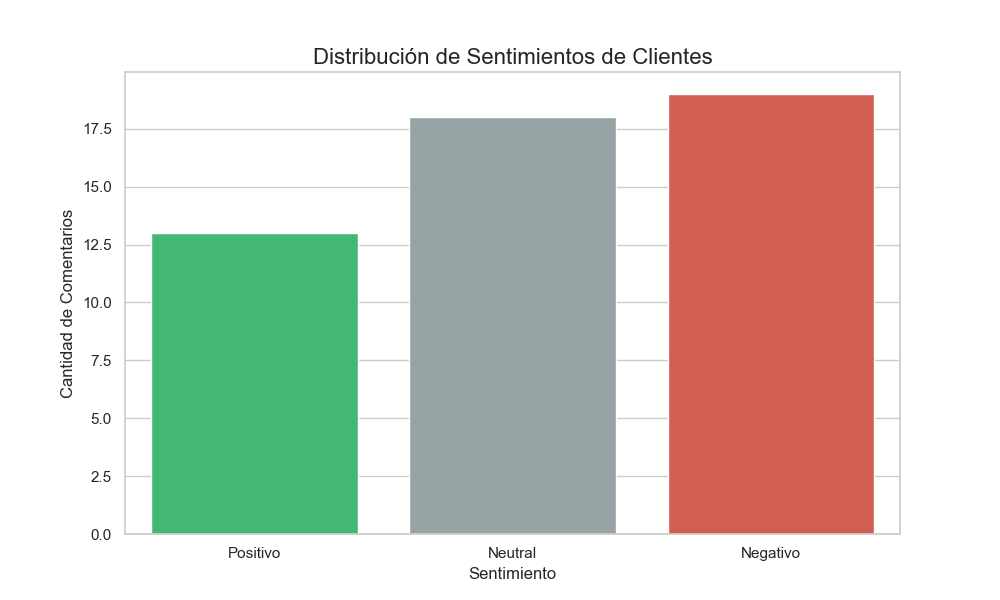
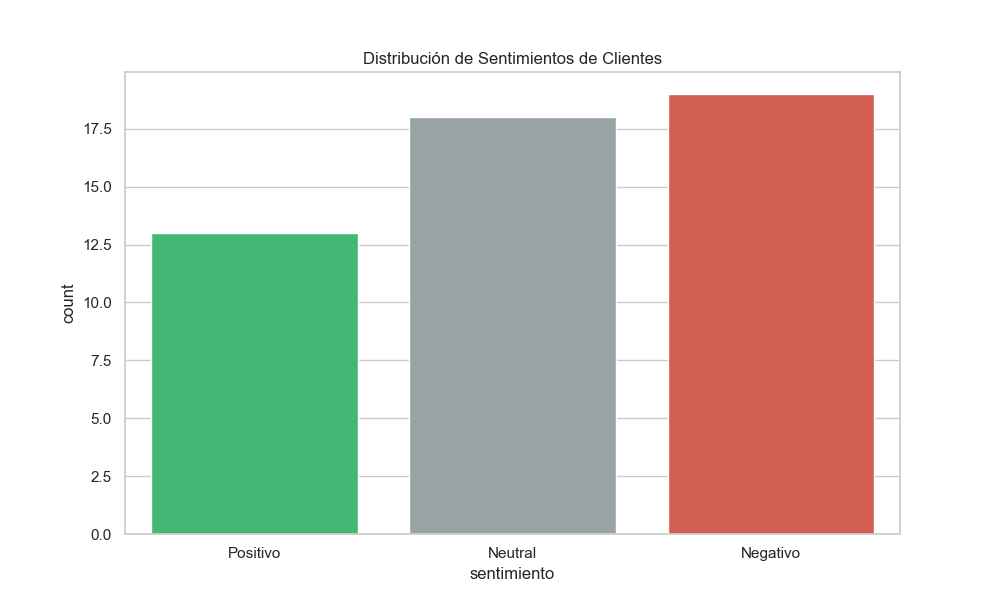
fase 4
creacion de pdf considerando fases anteriores

Changed region(s): [[0.31, 0.06, 0.713, 0.12], [0.062, 0.36, 0.093, 0.66], [0.465, 0.93, 0.558, 0.99]]

diff --git a/analizador_sentimientos/main.py b/analizador_sentimientos/main.py
@@ -3,69 +3,88 @@ import re
 import matplotlib.pyplot as plt
 import seaborn as sns
 from pysentimiento import create_analyzer
+from fpdf import FPDF
+from datetime import datetime
 
 # ==========================================
 # CONFIGURACIÓN INICIAL
 # ==========================================
 print("⏳ Cargando el cerebro de IA (pysentimiento)...")
 analyzer = create_analyzer(task="sentiment", lang="es")
-
-# Configuración estética de los gráficos
 sns.set_theme(style="whitegrid")
 
 # ==========================================
-# FUNCIONES DE PROCESAMIENTO
+# CLASE PARA EL REPORTE PDF
+# ==========================================
+class ReportePDF(FPDF):
+    def header(self):
+        self.set_font('Arial', 'B', 15)
+        self.cell(0, 10, 'Reporte de Análisis de Sentimientos', 0, 1, 'C')
+        self.ln(5)
+
+    def footer(self):
+        self.set_y(-15)
+        self.set_font('Arial', 'I', 8)
+        self.cell(0, 10, f'Página {self.page_no()}', 0, 0, 'C')
+
+# ==========================================
+# FUNCIONES DE PROCESAMIENTO Y LÓGICA
 # ==========================================
 
 def limpiar_texto(texto):
-    if not isinstance(texto, str):
-        return ""
+    if not isinstance(texto, str): return ""
     texto = texto.lower()
-    texto = re.sub(r'http\S+|www\S+|https\S+', '', texto, flags=re.MULTILINE)
     texto = re.sub(r'[^a-záéíóúñ\s]', '', texto)
     return texto.strip()
 
 def clasificar_sentimiento(texto_limpio):
-    if not texto_limpio:
-        return "Neutral"
+    if not texto_limpio: return "Neutral"
     resultado = analyzer.predict(texto_limpio)
     mapeo = {"POS": "Positivo", "NEG": "Negativo", "NEU": "Neutral"}
     return mapeo.get(resultado.output, "Neutral")
 
-# ==========================================
-# FASE 3: VISUALIZACIÓN
-# ==========================================
-
 def generar_grafico(df):
-    """
-    Crea un gráfico de barras con los resultados y lo guarda como imagen.
-    """
-    print("📊 Generando gráfico de resultados...")
-    
     plt.figure(figsize=(10, 6))
-    
-    # Definir colores fijos para coherencia (Verde, Gris, Rojo)
     colores = {"Positivo": "#2ecc71", "Neutral": "#95a5a6", "Negativo": "#e74c3c"}
-    
-    # Crear el gráfico de barras
     sns.countplot(x='sentimiento', data=df, palette=colores, hue='sentimiento', legend=False)
-    
-    plt.title('Distribución de Sentimientos de Clientes', fontsize=16)
-    plt.xlabel('Sentimiento', fontsize=12)
-    plt.ylabel('Cantidad de Comentarios', fontsize=12)
-    
-    # Guardar el gráfico como imagen para el reporte futuro
+    plt.title('Distribución de Sentimientos de Clientes')
     plt.savefig("reporte_sentimientos.png")
-    print("✅ Gráfico guardado como 'reporte_sentimientos.png'")
+    plt.close() # Cerramos para liberar memoria
+
+def crear_pdf(df):
+    print("📄 Generando archivo PDF...")
+    pdf = ReportePDF()
+    pdf.add_page()
     
-    # Mostrar el gráfico en una ventana (opcional)
-    # plt.show()
+    # Información General
+    pdf.set_font('Arial', '', 12)
+    pdf.cell(0, 10, f"Fecha del reporte: {datetime.now().strftime('%d/%m/%Y')}", 0, 1)
+    pdf.cell(0, 10, f"Total de comentarios analizados: {len(df)}", 0, 1)
+    pdf.ln(10)
+    
+    # Resumen Estadístico
+    pdf.set_font('Arial', 'B', 12)
+    pdf.cell(0, 10, 'Resumen Ejecutivo:', 0, 1)
+    pdf.set_font('Arial', '', 12)
+    
+    conteo = df['sentimiento'].value_counts()
+    for sent, cant in conteo.items():
+        porcentaje = (cant / len(df)) * 100
+        pdf.cell(0, 10, f"- {sent}: {cant} ({porcentaje:.1f}%)", 0, 1)
+    
+    pdf.ln(10)
+    
+    # Insertar el Gráfico
+    pdf.image('reporte_sentimientos.png', x=10, y=None, w=180)
+    
+    pdf.output("Reporte_Final_Sentimientos.pdf")
+    print("✅ ¡PDF generado como 'Reporte_Final_Sentimientos.pdf'!")
 
 # ==========================================
 # FLUJO PRINCIPAL
 # ==========================================
 
-def ejecutar_analizador():
+def ejecutar_proyecto():
     archivo_entrada = "datos_clientes.csv"
     
     try:
@@ -73,23 +92,22 @@ def ejecutar_analizador():
         df = pd.read_csv(archivo_entrada)
 
         # FASE 2: Análisis
-        print("🧹 Procesando y analizando comentarios...")
+        print("🧠 Analizando comentarios...")
         df['comentario_limpio'] = df['comentario'].apply(limpiar_texto)
         df['sentimiento'] = df['comentario_limpio'].apply(clasificar_sentimiento)
 
-        # FASE 3: Visualización
+        # FASE 3: Gráfico
         generar_grafico(df)
 
-        # Guardar CSV final
-        df.to_csv("datos_analizados.csv", index=False, encoding='utf-8')
-        
+        # FASE 4: Reporte PDF
+        crear_pdf(df)
+
         print("\n" + "="*30)
-        print("✅ FASE 3 COMPLETADA")
+        print("🎯 PROYECTO FINALIZADO")
         print("="*30)
-        print(df['sentimiento'].value_counts())
 
     except Exception as e:
         print(f"❌ Error: {e}")
 
 if __name__ == "__main__":
-    ejecutar_analizador()
+    ejecutar_proyecto()
